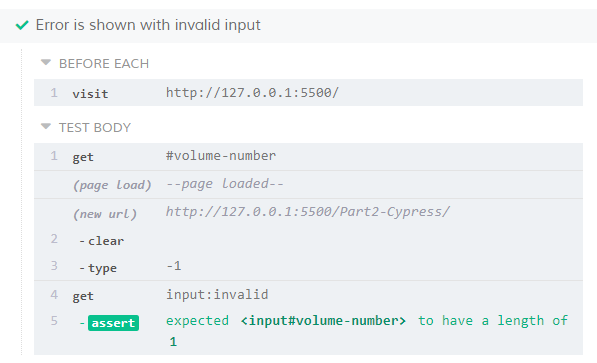
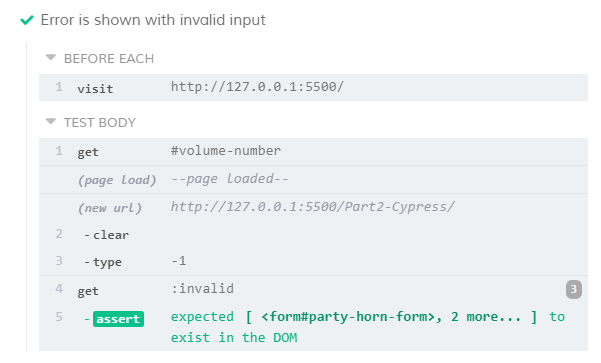
done

diff --git a/Part2-Cypress/cypress/integration/party_horn/custom-tests.js b/Part2-Cypress/cypress/integration/party_horn/custom-tests.js
@@ -21,14 +21,13 @@ describe('Party Horn Tests', () => {
     })
   })
 
-  // it('Changing audio', () => { 
-  //   cy.get('#volume-slider').invoke('val', 33).trigger('input')
-  //   cy.get('#horn-sound')
-  //   .then(($el) => {
-  //       // not working needs correct id i think
-  //       expect($el).to.have.prop('#horn-sound', .33)
-  //   })
-  // })
+  it('Changing audio', () => { 
+    cy.get('#volume-slider').invoke('val', 33).trigger('input')
+    cy.get('#horn-sound')
+    .then(($el) => {
+        expect($el).to.have.prop('volume', .33)
+    })
+  })
 
   it('Sound and image changes for party horn radio button', () => { 
     cy.get('#radio-party-horn').invoke('click')
@@ -86,6 +85,9 @@ describe('Party Horn Tests', () => {
 
   it('Error is shown with invalid input', () => { 
     cy.get('#volume-number').clear().type('-1')
-    cy.get('input:invalid').should('have.length', 1)
+    cy.get(':invalid')
+    .then(($el) => {
+      expect($el).to.exist;
+    })
   })
 });
